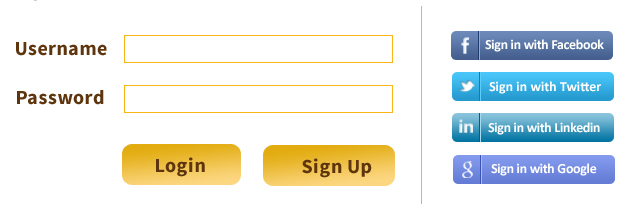
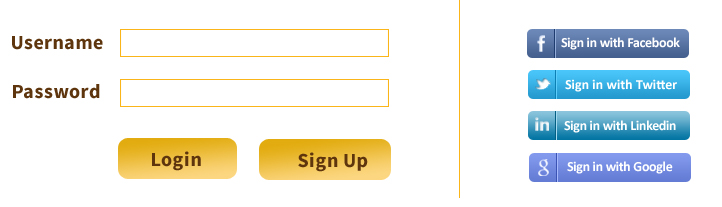
login
login

diff --git a/css/style.css b/css/style.css
@@ -176,15 +176,27 @@ footer ul li { display: inline;padding: 15px;}
   border-bottom: 5px solid #fab518;
   padding-bottom: 10px;
   margin: 1px auto;
+  margin-left: 50px;
+margin-right: 50px;
 }
-.loginxyz{border: 5px solid #fab518; border-radius: 5px;padding: 35px;height: 450px;width: 735px;margin-left: 20px;
+.loginxyz{border: 5px solid #fab518;
+border-radius: 5px;
+padding: 36px;
+height: 453px;
+width: 900px;
+margin-left: 0px;
 
 }
 .socialacc{
   font-family: 'source_sans_probold';
   font-size: 20px;
   color: #5e350d;
-  line-height: 11px;}
+  line-height: 11px;
+margin-left: 50px;
+}
+.create1{
+	margin-top: 40px;
+}
 .input-group input{width: 260px;}
 #loginform{max-width: 260px;width: 100%;}
 .loginform .form-control {
@@ -239,7 +251,7 @@ footer ul li { display: inline;padding: 15px;}
 }
 #logjpg{
 	margin-top: 10px;
-	margin-left: -29px;
+	margin-left: 25px;
 }
 /*****************css for Giglist********************/
 #giglisth2{color: #5e350d;font-family: 'source_sans_probold';font-size: 30px;}

diff --git a/index.html b/index.html
@@ -129,7 +129,7 @@
     <div class="container">
       <div class="row loginxyz">
       <h2 id="login">Login </h2>    
-            <h2 class="socialacc">Create an account using any of your social profiles.</h2>
+            <h2 class="socialacc create1">Create an account using any of your social profiles.</h2>
             <h2 class="socialacc">Sign Up for a free account Now.</h2>      
           
 
